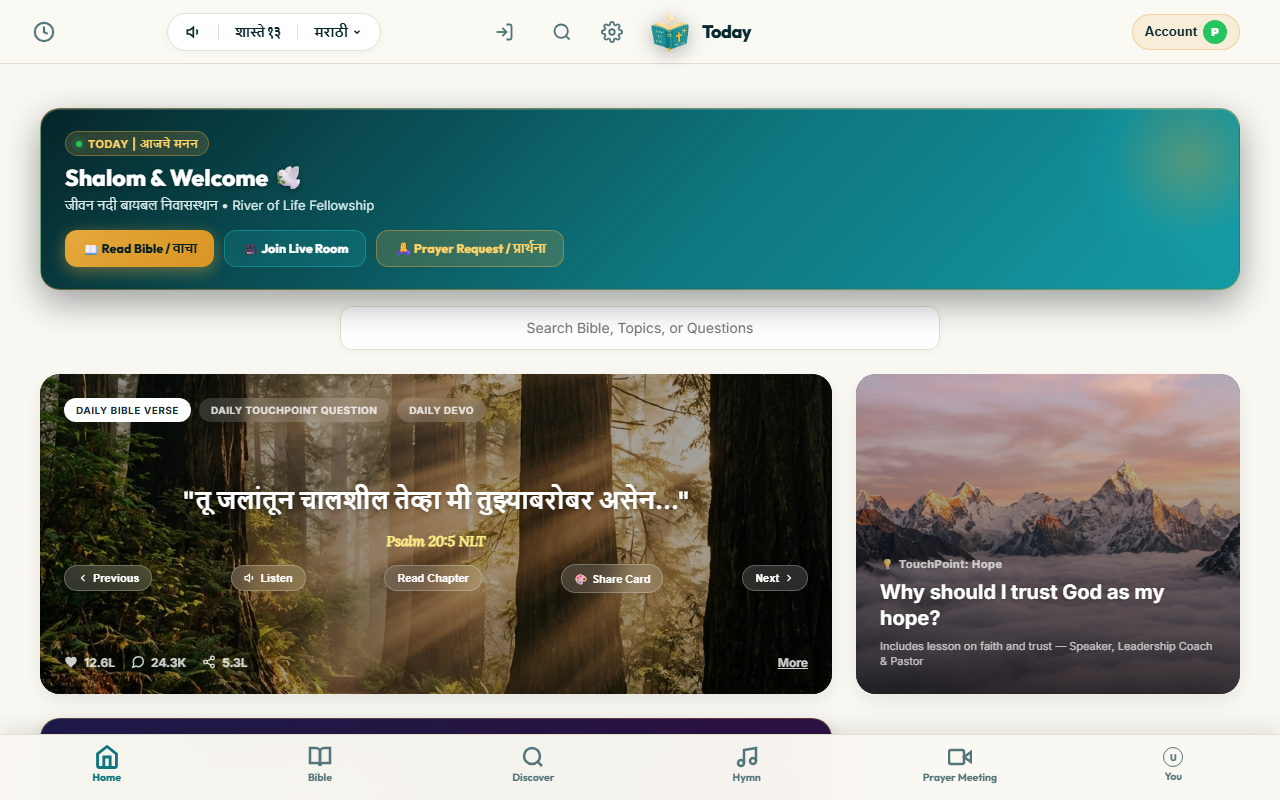
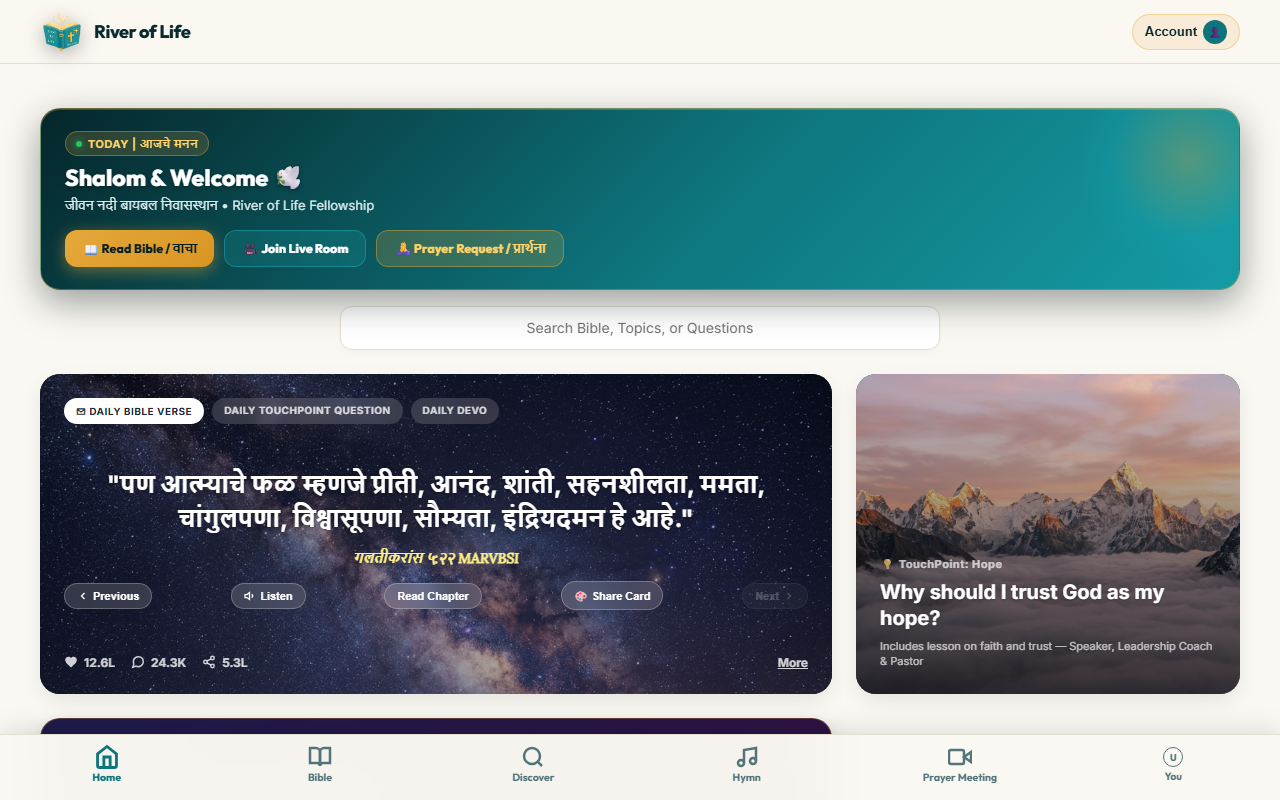
fix: Resolve JS SyntaxError and un-guarded null listeners causing click freezes across all devices

diff --git a/docs/index.html b/docs/index.html
@@ -53,8 +53,8 @@
 </head>
 <body>
   
-  <!-- Splash Screen Overlay -->
-  <div id="splash-screen" class="splash-screen">
+  <!-- Splash Screen Overlay (1-Tap Dismiss & Non-Blocking Pointer) -->
+  <div id="splash-screen" class="splash-screen" onclick="dismissSplashScreen()">
     <div class="splash-river-bg">
       <svg class="splash-wave-svg" viewBox="0 0 1440 320" preserveAspectRatio="none" xmlns="http://www.w3.org/2000/svg">
         <path class="wave-p1" d="M0,96L48,112C96,128,192,160,288,186.7C384,213,480,235,576,213.3C672,192,768,128,864,122.7C960,117,1056,171,1152,186.7C1248,203,1344,181,1392,170.7L1440,160L1440,320L1392,320C1344,320,1248,320,1152,320C1056,320,960,320,864,320C768,320,672,320,576,320C480,320,384,320,288,320C192,320,96,320,48,320L0,320Z"></path>
@@ -3083,17 +3083,20 @@
     </div>
 
   <!-- App Main Logic (Cache-Busted for Version 83 Extended Splash Verse & Logo Theme) -->
-  <script src="app.js?v=119_CSS_OVERLAY_DISPLAY_POINTER_FIX"></script>
+  <script src="app.js?v=120_FIX_SYNTAX_ERROR_AND_NULL_POINTER_CLICK_FREEZE"></script>
 
   <script>
-    // Fallback Safety: Guarantee splash screen is hidden within 4.5s no matter what
-    setTimeout(function() {
+    window.dismissSplashScreen = function() {
       var splash = document.getElementById("splash-screen");
       if (splash && splash.style.display !== "none") {
         splash.classList.add("fade-out");
-        setTimeout(function() { splash.style.display = "none"; }, 500);
+        splash.style.pointerEvents = "none";
+        setTimeout(function() { splash.style.display = "none"; }, 400);
       }
-    }, 4500);
+    };
+
+    // Guarantee splash screen vanishes within 1.5s max
+    setTimeout(dismissSplashScreen, 1500);
   </script>
 </body>
 </html>

diff --git a/index.html b/index.html
@@ -53,8 +53,8 @@
 </head>
 <body>
   
-  <!-- Splash Screen Overlay -->
-  <div id="splash-screen" class="splash-screen">
+  <!-- Splash Screen Overlay (1-Tap Dismiss & Non-Blocking Pointer) -->
+  <div id="splash-screen" class="splash-screen" onclick="dismissSplashScreen()">
     <div class="splash-river-bg">
       <svg class="splash-wave-svg" viewBox="0 0 1440 320" preserveAspectRatio="none" xmlns="http://www.w3.org/2000/svg">
         <path class="wave-p1" d="M0,96L48,112C96,128,192,160,288,186.7C384,213,480,235,576,213.3C672,192,768,128,864,122.7C960,117,1056,171,1152,186.7C1248,203,1344,181,1392,170.7L1440,160L1440,320L1392,320C1344,320,1248,320,1152,320C1056,320,960,320,864,320C768,320,672,320,576,320C480,320,384,320,288,320C192,320,96,320,48,320L0,320Z"></path>
@@ -3083,17 +3083,20 @@
     </div>
 
   <!-- App Main Logic (Cache-Busted for Version 83 Extended Splash Verse & Logo Theme) -->
-  <script src="app.js?v=119_CSS_OVERLAY_DISPLAY_POINTER_FIX"></script>
+  <script src="app.js?v=120_FIX_SYNTAX_ERROR_AND_NULL_POINTER_CLICK_FREEZE"></script>
 
   <script>
-    // Fallback Safety: Guarantee splash screen is hidden within 4.5s no matter what
-    setTimeout(function() {
+    window.dismissSplashScreen = function() {
       var splash = document.getElementById("splash-screen");
       if (splash && splash.style.display !== "none") {
         splash.classList.add("fade-out");
-        setTimeout(function() { splash.style.display = "none"; }, 500);
+        splash.style.pointerEvents = "none";
+        setTimeout(function() { splash.style.display = "none"; }, 400);
       }
-    }, 4500);
+    };
+
+    // Guarantee splash screen vanishes within 1.5s max
+    setTimeout(dismissSplashScreen, 1500);
   </script>
 </body>
 </html>

diff --git a/app.js b/app.js
@@ -7579,34 +7579,6 @@ function launchLiveMeetingRoom(meeting, customRoomUrl) {
   }
 }
 
-    const jitsiCont = document.getElementById("meeting-jitsi-container");
-    if (jitsiCont) {
-      jitsiCont.style.display = "block";
-      jitsiCont.innerHTML = `
-        <iframe 
-          id="webrtc-room-iframe"
-          src="${roomUrl}" 
-          width="100%" 
-          height="100%" 
-          allow="camera *; microphone *; speaker-selection *; display-capture *; autoplay *; fullscreen *; picture-in-picture *; accelerometer; gyroscope; microphone; camera; autoplay;" 
-          allowusermedia="true"
-          playsinline="true"
-          webkit-playsinline="true"
-          style="border: none; width: 100%; height: 100%; border-radius: 18px; background: #090d16;">
-        </iframe>
-      `;
-
-      logAudioDebug("Native WebRTC Room iframe mounted inside app window with optimal grid layout.", { roomUrl });
-    }
-
-    enumerateAndPopulateAudioDevices();
-    setTimeout(() => { unlockAndPlayRemoteAudio(); }, 1000);
-    showToast("Joined Live Fellowship Room 🙏");
-  } catch (err) {
-    logAudioDebug("launchLiveMeetingRoom notice:", err);
-  }
-}
-
 function exitLiveMeetingRoom() {
   try {
     console.log("Exiting Live Fellowship Meeting Room...");

diff --git a/docs/app.js b/docs/app.js
@@ -7579,34 +7579,6 @@ function launchLiveMeetingRoom(meeting, customRoomUrl) {
   }
 }
 
-    const jitsiCont = document.getElementById("meeting-jitsi-container");
-    if (jitsiCont) {
-      jitsiCont.style.display = "block";
-      jitsiCont.innerHTML = `
-        <iframe 
-          id="webrtc-room-iframe"
-          src="${roomUrl}" 
-          width="100%" 
-          height="100%" 
-          allow="camera *; microphone *; speaker-selection *; display-capture *; autoplay *; fullscreen *; picture-in-picture *; accelerometer; gyroscope; microphone; camera; autoplay;" 
-          allowusermedia="true"
-          playsinline="true"
-          webkit-playsinline="true"
-          style="border: none; width: 100%; height: 100%; border-radius: 18px; background: #090d16;">
-        </iframe>
-      `;
-
-      logAudioDebug("Native WebRTC Room iframe mounted inside app window with optimal grid layout.", { roomUrl });
-    }
-
-    enumerateAndPopulateAudioDevices();
-    setTimeout(() => { unlockAndPlayRemoteAudio(); }, 1000);
-    showToast("Joined Live Fellowship Room 🙏");
-  } catch (err) {
-    logAudioDebug("launchLiveMeetingRoom notice:", err);
-  }
-}
-
 function exitLiveMeetingRoom() {
   try {
     console.log("Exiting Live Fellowship Meeting Room...");

diff --git a/docs/sw.js b/docs/sw.js
@@ -1,4 +1,4 @@
-const CACHE_NAME = 'river-of-life-cache-v119-CSS-OVERLAY-DISPLAY-POINTER-FIX';
+const CACHE_NAME = 'river-of-life-cache-v120-FIX-SYNTAX-ERROR-AND-NULL-POINTER-CLICK-FREEZE';
 
 self.addEventListener('install', (event) => {
   self.skipWaiting();

diff --git a/sw.js b/sw.js
@@ -1,4 +1,4 @@
-const CACHE_NAME = 'river-of-life-cache-v119-CSS-OVERLAY-DISPLAY-POINTER-FIX';
+const CACHE_NAME = 'river-of-life-cache-v120-FIX-SYNTAX-ERROR-AND-NULL-POINTER-CLICK-FREEZE';
 
 self.addEventListener('install', (event) => {
   self.skipWaiting();
